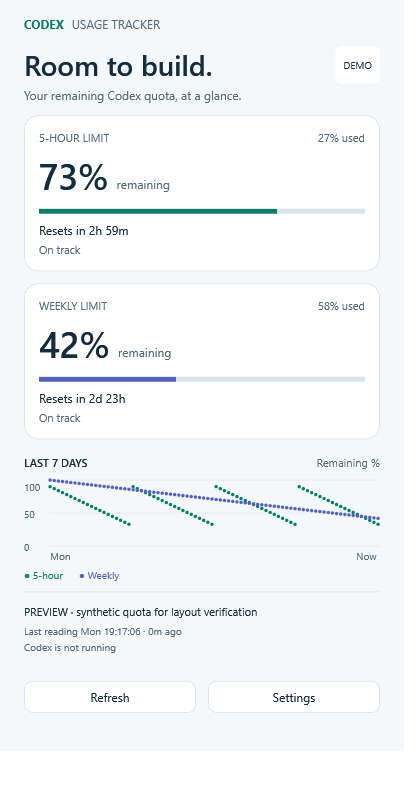
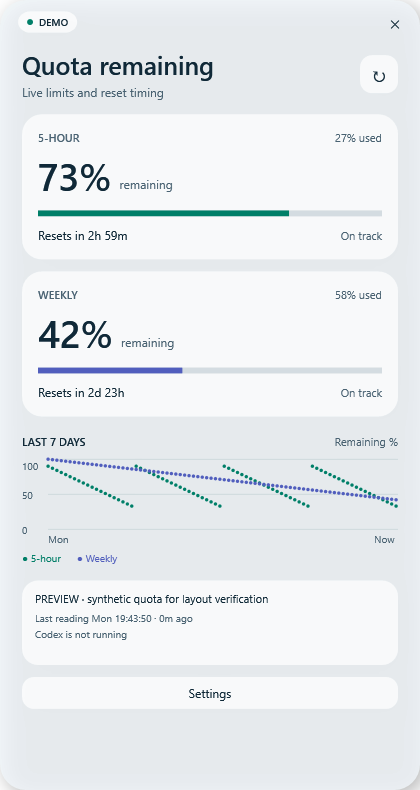
Refine tracker with glass UI

diff --git a/src/CodexUsageTracker.App/DetailsWindow.xaml b/src/CodexUsageTracker.App/DetailsWindow.xaml
@@ -1,31 +1,63 @@
-<Window x:Class="CodexUsageTracker.App.DetailsWindow" xmlns="http://schemas.microsoft.com/winfx/2006/xaml/presentation" xmlns:x="http://schemas.microsoft.com/winfx/2006/xaml" xmlns:local="clr-namespace:CodexUsageTracker.App" Title="Codex Usage Tracker" Width="420" Height="790" MinWidth="380" MinHeight="420" Background="{DynamicResource BackgroundBrush}" WindowStyle="ToolWindow" ShowInTaskbar="False" Topmost="True" KeyDown="OnKeyDown">
-  <ScrollViewer VerticalScrollBarVisibility="Auto" HorizontalScrollBarVisibility="Disabled">
-    <StackPanel Margin="24,16,24,16">
-      <DockPanel><TextBlock Text="CODEX" FontWeight="Bold" FontSize="12" Foreground="{DynamicResource AccentBrush}"/><TextBlock Text="USAGE TRACKER" Margin="8,0" FontSize="12" Foreground="{DynamicResource MutedBrush}"/></DockPanel>
-      <DockPanel Margin="0,14,0,4"><TextBlock Text="Room to build." FontSize="28" FontWeight="SemiBold"/><Border Background="{DynamicResource CardBrush}" CornerRadius="6" Padding="8,4" HorizontalAlignment="Right"><TextBlock Text="{Binding Status}" FontSize="10" VerticalAlignment="Center"/></Border></DockPanel>
-      <TextBlock Text="Your remaining Codex quota, at a glance." Foreground="{DynamicResource MutedBrush}" Margin="0,0,0,12"/>
-      <Border Background="{DynamicResource CardBrush}" BorderBrush="{DynamicResource BorderBrush}" BorderThickness="1" CornerRadius="14" Padding="14" Margin="0,0,0,12">
-        <StackPanel><DockPanel><TextBlock Text="5-HOUR LIMIT" FontSize="11" Foreground="{DynamicResource MutedBrush}"/><TextBlock Text="{Binding FiveUsed}" HorizontalAlignment="Right" FontSize="11" Foreground="{DynamicResource MutedBrush}"/></DockPanel>
-          <StackPanel Orientation="Horizontal" Margin="0,6,0,10"><TextBlock Text="{Binding FiveRemaining}" FontSize="36" FontWeight="SemiBold"/><TextBlock Text="remaining" Margin="8,0,0,7" VerticalAlignment="Bottom" Foreground="{DynamicResource MutedBrush}"/></StackPanel>
-          <ProgressBar Value="{Binding FiveValue, Mode=OneWay}" Maximum="100" Height="5" BorderThickness="0" Background="{DynamicResource BorderBrush}" Foreground="{DynamicResource AccentBrush}"/>
-          <TextBlock Text="{Binding FiveReset}" Margin="0,8,0,4"/><TextBlock Text="{Binding FivePace}" FontSize="11" Foreground="{DynamicResource MutedBrush}"/>
+<Window x:Class="CodexUsageTracker.App.DetailsWindow"
+        xmlns="http://schemas.microsoft.com/winfx/2006/xaml/presentation"
+        xmlns:x="http://schemas.microsoft.com/winfx/2006/xaml"
+        xmlns:local="clr-namespace:CodexUsageTracker.App"
+        Title="Codex Usage Tracker" Width="420" Height="760" MinWidth="380" MinHeight="520"
+        WindowStyle="None" ResizeMode="NoResize" AllowsTransparency="False"
+        Background="{DynamicResource BackgroundBrush}" ShowInTaskbar="False" Topmost="True"
+        KeyDown="OnKeyDown">
+  <Border Background="{DynamicResource GlassBrush}" CornerRadius="26">
+    <Border.Effect><DropShadowEffect BlurRadius="30" ShadowDepth="8" Opacity="0.35" Color="#000000"/></Border.Effect>
+    <Grid>
+      <Grid.RowDefinitions><RowDefinition Height="44"/><RowDefinition/></Grid.RowDefinitions>
+      <Grid Grid.Row="0" Background="Transparent" MouseLeftButtonDown="DragWindow">
+        <Border HorizontalAlignment="Left" VerticalAlignment="Center" Margin="18,0,0,0" Background="{DynamicResource CardBrush}" CornerRadius="12" Padding="9,4">
+          <StackPanel Orientation="Horizontal">
+            <Ellipse Width="6" Height="6" Fill="{DynamicResource AccentBrush}" Margin="0,0,6,0"/>
+            <TextBlock Text="{Binding Status}" FontSize="10" FontWeight="SemiBold" VerticalAlignment="Center"/>
+          </StackPanel>
+        </Border>
+        <Button HorizontalAlignment="Right" Width="34" Height="34" Margin="0,5,8,5" Padding="0" Background="Transparent" Content="×" FontSize="22" FontWeight="Light" ToolTip="Collapse" AutomationProperties.Name="Collapse usage details" Click="Collapse"/>
+      </Grid>
+      <ScrollViewer Grid.Row="1" VerticalScrollBarVisibility="Auto" HorizontalScrollBarVisibility="Disabled" Padding="0,0,7,0">
+        <StackPanel Margin="22,4,15,22">
+          <DockPanel Margin="0,0,0,14">
+            <StackPanel>
+              <TextBlock Text="Quota remaining" FontSize="25" FontWeight="SemiBold"/>
+              <TextBlock Text="Live limits and reset timing" Foreground="{DynamicResource MutedBrush}" Margin="0,3,0,0"/>
+            </StackPanel>
+            <Button Content="↻" ToolTip="Refresh now" AutomationProperties.Name="Refresh quota" Click="Refresh" Width="38" Height="38" Padding="0" HorizontalAlignment="Right" VerticalAlignment="Center" FontSize="19" Background="{DynamicResource CardBrush}"/>
+          </DockPanel>
+          <Border Background="{DynamicResource CardBrush}" CornerRadius="20" Padding="16" Margin="0,0,0,12">
+            <StackPanel>
+              <DockPanel><TextBlock Text="5-HOUR" FontSize="11" FontWeight="SemiBold" Foreground="{DynamicResource MutedBrush}"/><TextBlock Text="{Binding FiveUsed}" HorizontalAlignment="Right" FontSize="11" Foreground="{DynamicResource MutedBrush}"/></DockPanel>
+              <StackPanel Orientation="Horizontal" Margin="0,5,0,10"><TextBlock Text="{Binding FiveRemaining}" FontSize="38" FontWeight="SemiBold"/><TextBlock Text="remaining" Margin="8,0,0,8" VerticalAlignment="Bottom" Foreground="{DynamicResource MutedBrush}"/></StackPanel>
+              <ProgressBar Value="{Binding FiveValue, Mode=OneWay}" Maximum="100" Height="6" BorderThickness="0" Background="{DynamicResource TrackBrush}" Foreground="{DynamicResource AccentBrush}"/>
+              <DockPanel Margin="0,11,0,0"><TextBlock Text="{Binding FiveReset}"/><TextBlock Text="{Binding FivePace}" HorizontalAlignment="Right" FontSize="11" Foreground="{DynamicResource MutedBrush}" VerticalAlignment="Center"/></DockPanel>
+            </StackPanel>
+          </Border>
+          <Border Background="{DynamicResource CardBrush}" CornerRadius="20" Padding="16" Margin="0,0,0,18">
+            <StackPanel>
+              <DockPanel><TextBlock Text="WEEKLY" FontSize="11" FontWeight="SemiBold" Foreground="{DynamicResource MutedBrush}"/><TextBlock Text="{Binding WeekUsed}" HorizontalAlignment="Right" FontSize="11" Foreground="{DynamicResource MutedBrush}"/></DockPanel>
+              <StackPanel Orientation="Horizontal" Margin="0,5,0,10"><TextBlock Text="{Binding WeekRemaining}" FontSize="38" FontWeight="SemiBold"/><TextBlock Text="remaining" Margin="8,0,0,8" VerticalAlignment="Bottom" Foreground="{DynamicResource MutedBrush}"/></StackPanel>
+              <ProgressBar Value="{Binding WeekValue, Mode=OneWay}" Maximum="100" Height="6" BorderThickness="0" Background="{DynamicResource TrackBrush}" Foreground="{DynamicResource WeekBrush}"/>
+              <DockPanel Margin="0,11,0,0"><TextBlock Text="{Binding WeekReset}"/><TextBlock Text="{Binding WeekPace}" HorizontalAlignment="Right" FontSize="11" Foreground="{DynamicResource MutedBrush}" VerticalAlignment="Center"/></DockPanel>
+            </StackPanel>
+          </Border>
+          <DockPanel><TextBlock Text="LAST 7 DAYS" FontSize="11" FontWeight="SemiBold"/><TextBlock Text="Remaining %" HorizontalAlignment="Right" Foreground="{DynamicResource MutedBrush}" FontSize="11"/></DockPanel>
+          <local:HistoryChart x:Name="Chart" Height="88" Margin="0,10,0,4"/>
+          <StackPanel Orientation="Horizontal"><TextBlock Text="● 5-hour" Foreground="{DynamicResource AccentBrush}" FontSize="10"/><TextBlock Text="● Weekly" Foreground="{DynamicResource WeekBrush}" FontSize="10" Margin="16,0,0,0"/></StackPanel>
+          <Border Background="{DynamicResource CardBrush}" CornerRadius="16" Margin="0,16,0,0" Padding="13,11">
+            <StackPanel>
+              <TextBlock Text="{Binding SourceDetail}" TextWrapping="Wrap" FontSize="11"/>
+              <TextBlock Text="{Binding LastUpdated}" Foreground="{DynamicResource MutedBrush}" FontSize="10" Margin="0,5,0,0"/>
+              <TextBlock Text="{Binding Connection}" Foreground="{DynamicResource MutedBrush}" FontSize="10" Margin="0,3,0,0"/>
+              <TextBlock Text="{Binding StorageStatus}" TextWrapping="Wrap" Foreground="{DynamicResource DangerBrush}" FontSize="10"/>
+            </StackPanel>
+          </Border>
+          <Button Content="Settings" Click="Settings" Margin="0,12,0,0"/>
         </StackPanel>
-      </Border>
-      <Border Background="{DynamicResource CardBrush}" BorderBrush="{DynamicResource BorderBrush}" BorderThickness="1" CornerRadius="14" Padding="14" Margin="0,0,0,16">
-        <StackPanel><DockPanel><TextBlock Text="WEEKLY LIMIT" FontSize="11" Foreground="{DynamicResource MutedBrush}"/><TextBlock Text="{Binding WeekUsed}" HorizontalAlignment="Right" FontSize="11" Foreground="{DynamicResource MutedBrush}"/></DockPanel>
-          <StackPanel Orientation="Horizontal" Margin="0,6,0,10"><TextBlock Text="{Binding WeekRemaining}" FontSize="36" FontWeight="SemiBold"/><TextBlock Text="remaining" Margin="8,0,0,7" VerticalAlignment="Bottom" Foreground="{DynamicResource MutedBrush}"/></StackPanel>
-          <ProgressBar Value="{Binding WeekValue, Mode=OneWay}" Maximum="100" Height="5" BorderThickness="0" Background="{DynamicResource BorderBrush}" Foreground="{DynamicResource WeekBrush}"/>
-          <TextBlock Text="{Binding WeekReset}" Margin="0,8,0,4"/><TextBlock Text="{Binding WeekPace}" FontSize="11" Foreground="{DynamicResource MutedBrush}"/>
-        </StackPanel>
-      </Border>
-      <DockPanel><TextBlock Text="LAST 7 DAYS" FontSize="11" FontWeight="SemiBold"/><TextBlock Text="Remaining %" HorizontalAlignment="Right" Foreground="{DynamicResource MutedBrush}" FontSize="11"/></DockPanel>
-      <local:HistoryChart x:Name="Chart" Height="84" Margin="0,10,0,4"/>
-      <StackPanel Orientation="Horizontal"><TextBlock Text="● 5-hour" Foreground="{DynamicResource AccentBrush}" FontSize="10"/><TextBlock Text="● Weekly" Foreground="{DynamicResource WeekBrush}" FontSize="10" Margin="16,0,0,0"/></StackPanel>
-
-      <Border BorderBrush="{DynamicResource BorderBrush}" BorderThickness="0,1,0,0" Margin="0,10,0,0" Padding="0,12,0,0">
-        <StackPanel><TextBlock Text="{Binding SourceDetail}" TextWrapping="Wrap" FontSize="11"/><TextBlock Text="{Binding LastUpdated}" Foreground="{DynamicResource MutedBrush}" FontSize="10" Margin="0,5,0,0"/><TextBlock Text="{Binding Connection}" Foreground="{DynamicResource MutedBrush}" FontSize="10" Margin="0,3,0,0"/><TextBlock Text="{Binding StorageStatus}" TextWrapping="Wrap" Foreground="#DF8C36" FontSize="10"/></StackPanel>
-      </Border>
-      <Grid Margin="0,14,0,0"><Grid.ColumnDefinitions><ColumnDefinition/><ColumnDefinition Width="12"/><ColumnDefinition/></Grid.ColumnDefinitions><Button Content="{Binding RefreshLabel}" Click="Refresh"/><Button Grid.Column="2" Content="Settings" Click="Settings"/></Grid>
-    </StackPanel>
-  </ScrollViewer>
+      </ScrollViewer>
+    </Grid>
+  </Border>
 </Window>

diff --git a/src/CodexUsageTracker.App/SettingsWindow.xaml b/src/CodexUsageTracker.App/SettingsWindow.xaml
@@ -1,21 +1,45 @@
-<Window x:Class="CodexUsageTracker.App.SettingsWindow" xmlns="http://schemas.microsoft.com/winfx/2006/xaml/presentation" xmlns:x="http://schemas.microsoft.com/winfx/2006/xaml" Title="Tracker settings" Width="440" Height="650" ResizeMode="NoResize" Background="{DynamicResource BackgroundBrush}" WindowStartupLocation="CenterScreen" ShowInTaskbar="False">
-  <ScrollViewer VerticalScrollBarVisibility="Auto"><StackPanel Margin="24">
-    <TextBlock Text="Make it yours." FontSize="25" FontWeight="SemiBold" Margin="0,0,0,16"/>
-    <CheckBox x:Name="OnlyRunning" Content="Show widget only while Codex is running"/>
-    <CheckBox x:Name="Floating" Content="Enable floating circle"/>
-    <TextBlock Text="The tray icon stays available when the circle is hidden." FontSize="11" Foreground="{DynamicResource MutedBrush}" TextWrapping="Wrap"/>
-    <TextBlock Text="Appearance" Margin="0,18,0,6"/><ComboBox x:Name="ThemeChoice" SelectedIndex="0"><ComboBoxItem Content="System"/><ComboBoxItem Content="Light"/><ComboBoxItem Content="Dark"/></ComboBox>
-    <CheckBox x:Name="Alerts" Content="Enable low-quota notifications" Margin="0,20,0,8"/>
-    <Grid><Grid.ColumnDefinitions><ColumnDefinition/><ColumnDefinition Width="14"/><ColumnDefinition/></Grid.ColumnDefinitions>
-      <StackPanel><TextBlock Text="Warning remaining (%)" FontSize="11"/><TextBox x:Name="Warning" Margin="0,6,0,0" Padding="7"/></StackPanel>
-      <StackPanel Grid.Column="2"><TextBlock Text="Critical remaining (%)" FontSize="11"/><TextBox x:Name="Critical" Margin="0,6,0,0" Padding="7"/></StackPanel>
+<Window x:Class="CodexUsageTracker.App.SettingsWindow"
+        xmlns="http://schemas.microsoft.com/winfx/2006/xaml/presentation"
+        xmlns:x="http://schemas.microsoft.com/winfx/2006/xaml"
+        Title="Tracker settings" Width="440" Height="720" ResizeMode="NoResize"
+        WindowStyle="None" AllowsTransparency="False" Background="{DynamicResource BackgroundBrush}"
+        WindowStartupLocation="CenterOwner" ShowInTaskbar="False">
+  <Border Background="{DynamicResource GlassBrush}" CornerRadius="26">
+    <Border.Effect><DropShadowEffect BlurRadius="30" ShadowDepth="8" Opacity="0.35" Color="#000000"/></Border.Effect>
+    <Grid>
+      <Grid.RowDefinitions><RowDefinition Height="48"/><RowDefinition/></Grid.RowDefinitions>
+      <Grid Background="Transparent" MouseLeftButtonDown="DragWindow">
+        <TextBlock Text="Settings" Margin="22,0,0,0" VerticalAlignment="Center" FontSize="16" FontWeight="SemiBold"/>
+        <Button Content="×" Click="Cancel" ToolTip="Close settings" AutomationProperties.Name="Close settings" HorizontalAlignment="Right" Width="34" Height="34" Margin="0,7,8,7" Padding="0" Background="Transparent" FontSize="22" FontWeight="Light"/>
+      </Grid>
+      <ScrollViewer Grid.Row="1" VerticalScrollBarVisibility="Auto" HorizontalScrollBarVisibility="Disabled" Padding="0,0,7,0">
+        <StackPanel Margin="22,8,15,22">
+          <TextBlock Text="VISIBILITY" FontSize="11" FontWeight="SemiBold" Foreground="{DynamicResource MutedBrush}"/>
+          <Border Background="{DynamicResource CardBrush}" CornerRadius="18" Padding="14" Margin="0,8,0,16">
+            <StackPanel><CheckBox x:Name="OnlyRunning" Content="Show widget only while Codex is running"/><CheckBox x:Name="Floating" Content="Enable floating circle"/><TextBlock Text="The tray icon stays available when the circle is hidden." FontSize="11" Foreground="{DynamicResource MutedBrush}" TextWrapping="Wrap" Margin="0,4,0,0"/></StackPanel>
+          </Border>
+          <TextBlock Text="APPEARANCE" FontSize="11" FontWeight="SemiBold" Foreground="{DynamicResource MutedBrush}"/>
+          <ComboBox x:Name="ThemeChoice" SelectedIndex="0" Margin="0,8,0,16"><ComboBoxItem Content="System"/><ComboBoxItem Content="Light"/><ComboBoxItem Content="Dark"/></ComboBox>
+          <TextBlock Text="ALERTS" FontSize="11" FontWeight="SemiBold" Foreground="{DynamicResource MutedBrush}"/>
+          <Border Background="{DynamicResource CardBrush}" CornerRadius="18" Padding="14" Margin="0,8,0,16">
+            <StackPanel>
+              <CheckBox x:Name="Alerts" Content="Enable low-quota notifications" Margin="0,0,0,12"/>
+              <Grid><Grid.ColumnDefinitions><ColumnDefinition/><ColumnDefinition Width="14"/><ColumnDefinition/></Grid.ColumnDefinitions>
+                <StackPanel><TextBlock Text="Warning remaining (%)" FontSize="11" Foreground="{DynamicResource MutedBrush}"/><TextBox x:Name="Warning" Margin="0,6,0,0"/></StackPanel>
+                <StackPanel Grid.Column="2"><TextBlock Text="Critical remaining (%)" FontSize="11" Foreground="{DynamicResource MutedBrush}"/><TextBox x:Name="Critical" Margin="0,6,0,0"/></StackPanel>
+              </Grid>
+            </StackPanel>
+          </Border>
+          <TextBlock Text="CODEX SOURCE" FontSize="11" FontWeight="SemiBold" Foreground="{DynamicResource MutedBrush}"/>
+          <DockPanel Margin="0,8,0,0"><Button DockPanel.Dock="Right" Content="Browse" Click="Browse" Margin="8,0,0,0"/><TextBox x:Name="Executable"/></DockPanel>
+          <TextBlock Text="Leave blank to find Codex automatically. Your existing sign-in is used; no API key is needed." FontSize="11" Foreground="{DynamicResource MutedBrush}" TextWrapping="Wrap" Margin="0,7,0,16"/>
+          <TextBlock Text="PRIVACY" FontSize="11" FontWeight="SemiBold" Foreground="{DynamicResource MutedBrush}"/>
+          <TextBlock Text="Quota readings stay on this PC for 7 days. No telemetry, browser cookies, prompts, or responses are stored." TextWrapping="Wrap" Foreground="{DynamicResource MutedBrush}" FontSize="11" Margin="0,7,0,0"/>
+          <Button Content="Clear local history" Click="ClearHistory" HorizontalAlignment="Left" Margin="0,10,0,0"/>
+          <TextBlock x:Name="Validation" Foreground="{DynamicResource DangerBrush}" TextWrapping="Wrap" Margin="0,10,0,0"/>
+          <Button Content="Save settings" Click="Save" Margin="0,14,0,0" Background="{DynamicResource AccentBrush}" Foreground="{DynamicResource AccentTextBrush}" FontWeight="SemiBold"/>
+        </StackPanel>
+      </ScrollViewer>
     </Grid>
-    <TextBlock Text="Codex executable (optional)" Margin="0,20,0,6"/><DockPanel><Button DockPanel.Dock="Right" Content="Browse" Click="Browse" Margin="8,0,0,0"/><TextBox x:Name="Executable" Padding="6"/></DockPanel>
-    <TextBlock Text="Leave blank to find Codex automatically. Uses your existing Codex sign-in; no API key needed." FontSize="11" Foreground="{DynamicResource MutedBrush}" TextWrapping="Wrap" Margin="0,6,0,0"/>
-    <TextBlock Text="Privacy" FontWeight="SemiBold" Margin="0,20,0,6"/>
-    <TextBlock Text="Quota readings stay on this PC for 7 days. No telemetry, browser cookies, or prompt/response storage." TextWrapping="Wrap" Foreground="{DynamicResource MutedBrush}" FontSize="11"/>
-    <Button Content="Clear local history" Click="ClearHistory" HorizontalAlignment="Left" Margin="0,10,0,0"/>
-    <TextBlock x:Name="Validation" Foreground="#D07924" TextWrapping="Wrap" Margin="0,10,0,0"/>
-    <Button Content="Save settings" Click="Save" Margin="0,12,0,0"/>
-  </StackPanel></ScrollViewer>
+  </Border>
 </Window>

diff --git a/src/CodexUsageTracker.App/App.xaml b/src/CodexUsageTracker.App/App.xaml
@@ -1,19 +1,48 @@
 <Application x:Class="CodexUsageTracker.App.App" xmlns="http://schemas.microsoft.com/winfx/2006/xaml/presentation" xmlns:x="http://schemas.microsoft.com/winfx/2006/xaml" ShutdownMode="OnExplicitShutdown">
   <Application.Resources>
-    <SolidColorBrush x:Key="BackgroundBrush" Color="#111B24"/>
-    <SolidColorBrush x:Key="CardBrush" Color="#1A2833"/>
-    <SolidColorBrush x:Key="TextBrush" Color="#F0F5F7"/>
-    <SolidColorBrush x:Key="MutedBrush" Color="#A5B5C2"/>
-    <SolidColorBrush x:Key="BorderBrush" Color="#30424F"/>
-    <SolidColorBrush x:Key="AccentBrush" Color="#4AD9B3"/>
-    <SolidColorBrush x:Key="WeekBrush" Color="#99ACFF"/>
+    <SolidColorBrush x:Key="BackgroundBrush" Color="#00111820"/>
+    <SolidColorBrush x:Key="GlassBrush" Color="#D9141E28"/>
+    <SolidColorBrush x:Key="GlassStrongBrush" Color="#F21A2631"/>
+    <SolidColorBrush x:Key="CardBrush" Color="#80283A47"/>
+    <SolidColorBrush x:Key="InputBrush" Color="#D923313D"/>
+    <SolidColorBrush x:Key="ButtonHoverBrush" Color="#B53A4D5A"/>
+    <SolidColorBrush x:Key="TextBrush" Color="#FFF7FAFC"/>
+    <SolidColorBrush x:Key="MutedBrush" Color="#FFB8C5CE"/>
+    <SolidColorBrush x:Key="BorderBrush" Color="#597B8D99"/>
+    <SolidColorBrush x:Key="TrackBrush" Color="#52637682"/>
+    <SolidColorBrush x:Key="AccentBrush" Color="#FF62E8C1"/>
+    <SolidColorBrush x:Key="AccentTextBrush" Color="#FF071A17"/>
+    <SolidColorBrush x:Key="WeekBrush" Color="#FFA8B7FF"/>
+    <SolidColorBrush x:Key="DangerBrush" Color="#FFFFB36B"/>
     <Style TargetType="Window"><Setter Property="FontFamily" Value="Segoe UI"/><Setter Property="FontSize" Value="13"/><Setter Property="Foreground" Value="{DynamicResource TextBrush}"/></Style>
     <Style TargetType="TextBlock"><Setter Property="Foreground" Value="{DynamicResource TextBrush}"/></Style>
     <Style TargetType="Button">
       <Setter Property="Foreground" Value="{DynamicResource TextBrush}"/><Setter Property="Background" Value="{DynamicResource CardBrush}"/>
-      <Setter Property="BorderBrush" Value="{DynamicResource BorderBrush}"/><Setter Property="Padding" Value="12,7"/><Setter Property="Cursor" Value="Hand"/>
-      <Setter Property="Template"><Setter.Value><ControlTemplate TargetType="Button"><Border x:Name="Body" Background="{TemplateBinding Background}" BorderBrush="{TemplateBinding BorderBrush}" BorderThickness="1" CornerRadius="8" Padding="{TemplateBinding Padding}"><ContentPresenter HorizontalAlignment="Center" VerticalAlignment="Center"/></Border><ControlTemplate.Triggers><Trigger Property="IsMouseOver" Value="True"><Setter TargetName="Body" Property="BorderBrush" Value="{DynamicResource AccentBrush}"/></Trigger><Trigger Property="IsKeyboardFocused" Value="True"><Setter TargetName="Body" Property="BorderBrush" Value="{DynamicResource AccentBrush}"/></Trigger><Trigger Property="IsEnabled" Value="False"><Setter Property="Opacity" Value="0.45"/></Trigger></ControlTemplate.Triggers></ControlTemplate></Setter.Value></Setter>
+      <Setter Property="BorderThickness" Value="0"/><Setter Property="Padding" Value="12,8"/><Setter Property="Cursor" Value="Hand"/>
+      <Setter Property="Template"><Setter.Value><ControlTemplate TargetType="Button"><Border x:Name="Body" Background="{TemplateBinding Background}" CornerRadius="12" Padding="{TemplateBinding Padding}"><ContentPresenter HorizontalAlignment="Center" VerticalAlignment="Center"/></Border><ControlTemplate.Triggers><Trigger Property="IsMouseOver" Value="True"><Setter TargetName="Body" Property="Background" Value="{DynamicResource ButtonHoverBrush}"/></Trigger><Trigger Property="IsKeyboardFocused" Value="True"><Setter TargetName="Body" Property="Background" Value="{DynamicResource ButtonHoverBrush}"/></Trigger><Trigger Property="IsEnabled" Value="False"><Setter Property="Opacity" Value="0.45"/></Trigger></ControlTemplate.Triggers></ControlTemplate></Setter.Value></Setter>
     </Style>
     <Style TargetType="CheckBox"><Setter Property="Foreground" Value="{DynamicResource TextBrush}"/><Setter Property="Margin" Value="0,8"/></Style>
+    <Style TargetType="TextBox"><Setter Property="Foreground" Value="{DynamicResource TextBrush}"/><Setter Property="Background" Value="{DynamicResource InputBrush}"/><Setter Property="CaretBrush" Value="{DynamicResource AccentBrush}"/><Setter Property="BorderThickness" Value="0"/><Setter Property="Padding" Value="10,8"/></Style>
+    <Style TargetType="ComboBox">
+      <Setter Property="Foreground" Value="{DynamicResource TextBrush}"/><Setter Property="Background" Value="{DynamicResource InputBrush}"/><Setter Property="Padding" Value="10,8"/>
+      <Setter Property="Template"><Setter.Value><ControlTemplate TargetType="ComboBox">
+        <Grid>
+          <ToggleButton Focusable="False" IsChecked="{Binding IsDropDownOpen, RelativeSource={RelativeSource TemplatedParent}, Mode=TwoWay}" Background="Transparent" BorderThickness="0" HorizontalAlignment="Stretch">
+            <ToggleButton.Template><ControlTemplate TargetType="ToggleButton"><Border Background="{DynamicResource InputBrush}" CornerRadius="11" Padding="10,8"><Grid><ContentPresenter Content="{Binding SelectionBoxItem, RelativeSource={RelativeSource AncestorType=ComboBox}}" VerticalAlignment="Center"/><TextBlock Text="⌄" HorizontalAlignment="Right" Foreground="{DynamicResource MutedBrush}"/></Grid></Border></ControlTemplate></ToggleButton.Template>
+          </ToggleButton>
+          <Popup x:Name="PART_Popup" IsOpen="{TemplateBinding IsDropDownOpen}" Placement="Bottom" AllowsTransparency="True" Focusable="False" PopupAnimation="Fade">
+            <Border Background="{DynamicResource GlassStrongBrush}" CornerRadius="12" Padding="4" MinWidth="{Binding ActualWidth, RelativeSource={RelativeSource TemplatedParent}}">
+              <Border.Effect><DropShadowEffect BlurRadius="18" ShadowDepth="5" Opacity="0.3"/></Border.Effect>
+              <ScrollViewer><ItemsPresenter/></ScrollViewer>
+            </Border>
+          </Popup>
+        </Grid>
+      </ControlTemplate></Setter.Value></Setter>
+    </Style>
+    <Style TargetType="ComboBoxItem">
+      <Setter Property="Foreground" Value="{DynamicResource TextBrush}"/><Setter Property="Background" Value="Transparent"/><Setter Property="Padding" Value="10,8"/>
+      <Setter Property="Template"><Setter.Value><ControlTemplate TargetType="ComboBoxItem"><Border x:Name="Item" Background="{TemplateBinding Background}" CornerRadius="8" Padding="{TemplateBinding Padding}"><ContentPresenter/></Border><ControlTemplate.Triggers><Trigger Property="IsHighlighted" Value="True"><Setter TargetName="Item" Property="Background" Value="{DynamicResource ButtonHoverBrush}"/></Trigger><Trigger Property="IsSelected" Value="True"><Setter TargetName="Item" Property="Background" Value="{DynamicResource CardBrush}"/></Trigger></ControlTemplate.Triggers></ControlTemplate></Setter.Value></Setter>
+    </Style>
+    <Style TargetType="ScrollBar"><Setter Property="Width" Value="7"/><Setter Property="Opacity" Value="0.55"/></Style>
   </Application.Resources>
 </Application>

diff --git a/src/CodexUsageTracker.App/WidgetWindow.xaml b/src/CodexUsageTracker.App/WidgetWindow.xaml
@@ -2,7 +2,9 @@
   <Button ToolTip="{Binding WidgetTooltip}" Click="OpenDetails" AutomationProperties.Name="Open Codex quota details" Padding="0" Background="Transparent" BorderBrush="Transparent">
     <Button.Template><ControlTemplate TargetType="Button"><ContentPresenter/></ControlTemplate></Button.Template>
     <Grid Width="92" Height="92">
-      <Ellipse Fill="{DynamicResource BackgroundBrush}" Stroke="{DynamicResource BorderBrush}"/>
+      <Ellipse Fill="{DynamicResource GlassStrongBrush}">
+        <Ellipse.Effect><DropShadowEffect BlurRadius="20" ShadowDepth="5" Opacity="0.38" Color="#000000"/></Ellipse.Effect>
+      </Ellipse>
       <local:QuotaRing x:Name="Ring" Five="{Binding FiveValue}" Week="{Binding WeekValue}" Margin="3"/>
       <StackPanel VerticalAlignment="Center" HorizontalAlignment="Center">
         <TextBlock Text="{Binding FiveRemaining}" FontWeight="SemiBold" FontSize="20" HorizontalAlignment="Center"/>

diff --git a/src/CodexUsageTracker.App/GlassWindow.cs b/src/CodexUsageTracker.App/GlassWindow.cs
@@ -1,0 +1,56 @@
+using System.Runtime.InteropServices;
+using System.Windows.Interop;
+
+namespace CodexUsageTracker.App;
+
+internal static class GlassWindow
+{
+    public static void Enable(Window window, Func<bool> isDark)
+    {
+        window.SourceInitialized += (_, _) => Apply(window, isDark());
+    }
+
+    public static void Apply(Window window, bool dark)
+    {
+        var handle = new WindowInteropHelper(window).Handle;
+        if (handle == IntPtr.Zero) return;
+        if (HwndSource.FromHwnd(handle) is { CompositionTarget: { } target }) target.BackgroundColor = Colors.Transparent;
+
+        var enabled = dark ? 1 : 0;
+        DwmSetWindowAttribute(handle, 20, ref enabled, sizeof(int));
+        var corner = 2; // DWMWCP_ROUND
+        DwmSetWindowAttribute(handle, 33, ref corner, sizeof(int));
+
+        if (OperatingSystem.IsWindowsVersionAtLeast(10, 0, 22000))
+        {
+            var backdrop = 3; // DWMSBT_TRANSIENTWINDOW: acrylic-style system backdrop
+            DwmSetWindowAttribute(handle, 38, ref backdrop, sizeof(int));
+            var margins = new Margins { Left = -1, Right = -1, Top = -1, Bottom = -1 };
+            DwmExtendFrameIntoClientArea(handle, ref margins);
+        }
+        else
+        {
+            var accent = new AccentPolicy
+            {
+                AccentState = 4, // ACCENT_ENABLE_ACRYLICBLURBEHIND
+                GradientColor = dark ? unchecked((int)0xCC201810) : unchecked((int)0xCCF8F2EE)
+            };
+            var size = Marshal.SizeOf<AccentPolicy>();
+            var pointer = Marshal.AllocHGlobal(size);
+            try
+            {
+                Marshal.StructureToPtr(accent, pointer, false);
+                var data = new WindowCompositionAttributeData { Attribute = 19, Data = pointer, SizeOfData = size };
+                SetWindowCompositionAttribute(handle, ref data);
+            }
+            finally { Marshal.FreeHGlobal(pointer); }
+        }
+    }
+
+    [StructLayout(LayoutKind.Sequential)] private struct Margins { public int Left, Right, Top, Bottom; }
+    [StructLayout(LayoutKind.Sequential)] private struct AccentPolicy { public int AccentState, AccentFlags, GradientColor, AnimationId; }
+    [StructLayout(LayoutKind.Sequential)] private struct WindowCompositionAttributeData { public int Attribute; public IntPtr Data; public int SizeOfData; }
+    [DllImport("dwmapi.dll")] private static extern int DwmSetWindowAttribute(IntPtr hwnd, int attribute, ref int value, int size);
+    [DllImport("dwmapi.dll")] private static extern int DwmExtendFrameIntoClientArea(IntPtr hwnd, ref Margins margins);
+    [DllImport("user32.dll")] [return: MarshalAs(UnmanagedType.Bool)] private static extern bool SetWindowCompositionAttribute(IntPtr hwnd, ref WindowCompositionAttributeData data);
+}

diff --git a/src/CodexUsageTracker.App/TrackerController.cs b/src/CodexUsageTracker.App/TrackerController.cs
@@ -135,7 +135,7 @@ public sealed class TrackerController : IDisposable
     public void ShowSettings() { var dialog = new SettingsWindow(this); if (details.IsVisible) dialog.Owner = details; dialog.ShowDialog(); }
     public void SaveSettings()
     {
-        try { Settings.Save(settingsPath); App.ApplyTheme(Settings.Theme); widget.Ring.InvalidateVisual(); details.Chart.InvalidateVisual(); ViewModel.Notify(); }
+        try { Settings.Save(settingsPath); App.ApplyTheme(Settings.Theme); GlassWindow.Apply(details, App.IsDarkTheme(Settings.Theme)); widget.Ring.InvalidateVisual(); details.Chart.InvalidateVisual(); ViewModel.Notify(); }
         catch (Exception e) when (e is IOException or UnauthorizedAccessException) { MessageBox.Show("Settings could not be saved. Check folder access.", "Codex Usage Tracker"); }
     }
     public void ClearHistory() { repository.Clear(); UpdateHistory(); }
@@ -144,7 +144,7 @@ public sealed class TrackerController : IDisposable
         try { details.SetHistory(repository.ReadHistory(DateTimeOffset.UtcNow)); }
         catch (Microsoft.Data.Sqlite.SqliteException) { ViewModel.StorageStatus = "History is temporarily unavailable."; }
     }
-    private void OnSystemPreferenceChanged(object sender, UserPreferenceChangedEventArgs e) => Application.Current.Dispatcher.BeginInvoke(() => { App.ApplyTheme(Settings.Theme); widget.Ring.InvalidateVisual(); details.Chart.InvalidateVisual(); });
+    private void OnSystemPreferenceChanged(object sender, UserPreferenceChangedEventArgs e) => Application.Current.Dispatcher.BeginInvoke(() => { App.ApplyTheme(Settings.Theme); GlassWindow.Apply(details, App.IsDarkTheme(Settings.Theme)); widget.Ring.InvalidateVisual(); details.Chart.InvalidateVisual(); });
     private void OnDisplayChanged(object? sender, EventArgs e) => Application.Current.Dispatcher.BeginInvoke(widget.ClampPosition);
 
     public void RenderPreview(string directory, string theme = "Dark")

diff --git a/src/CodexUsageTracker.App/App.xaml.cs b/src/CodexUsageTracker.App/App.xaml.cs
@@ -39,13 +39,16 @@ public partial class App : Application
         }
     }
 
+    public static bool IsDarkTheme(string choice) => choice == "Dark" ||
+        (choice == "System" && (int?)Registry.GetValue(@"HKEY_CURRENT_USER\Software\Microsoft\Windows\CurrentVersion\Themes\Personalize", "AppsUseLightTheme", 1) == 0);
+
     public static void ApplyTheme(string choice)
     {
-        var dark = choice == "Dark" || (choice == "System" && (int?)Registry.GetValue(@"HKEY_CURRENT_USER\Software\Microsoft\Windows\CurrentVersion\Themes\Personalize", "AppsUseLightTheme", 1) == 0);
+        var dark = IsDarkTheme(choice);
         var palette = dark
-            ? new[] { "#111B24", "#1A2833", "#F0F5F7", "#A5B5C2", "#30424F", "#4AD9B3", "#99ACFF" }
-            : new[] { "#F5F8FA", "#FFFFFF", "#142C3B", "#526A7A", "#DAE4EA", "#087D63", "#5262BC" };
-        var keys = new[] { "BackgroundBrush", "CardBrush", "TextBrush", "MutedBrush", "BorderBrush", "AccentBrush", "WeekBrush" };
+            ? new[] { "#00111820", "#D9141E28", "#F21A2631", "#80283A47", "#D923313D", "#B53A4D5A", "#FFF7FAFC", "#FFB8C5CE", "#597B8D99", "#52637682", "#FF62E8C1", "#FF071A17", "#FFA8B7FF", "#FFFFB36B" }
+            : new[] { "#00F5F9FC", "#D9EEF5F8", "#F7FFFFFF", "#BFFFFFFF", "#EFFFFFFF", "#E5DCEAF0", "#FF102938", "#FF405766", "#526F8795", "#426D8795", "#FF007F68", "#FFFFFFFF", "#FF515EBD", "#FFC56016" };
+        var keys = new[] { "BackgroundBrush", "GlassBrush", "GlassStrongBrush", "CardBrush", "InputBrush", "ButtonHoverBrush", "TextBrush", "MutedBrush", "BorderBrush", "TrackBrush", "AccentBrush", "AccentTextBrush", "WeekBrush", "DangerBrush" };
         for (var i = 0; i < keys.Length; i++) Current.Resources[keys[i]] = new SolidColorBrush((Color)ColorConverter.ConvertFromString(palette[i]));
     }
 

diff --git a/src/CodexUsageTracker.App/SettingsWindow.xaml.cs b/src/CodexUsageTracker.App/SettingsWindow.xaml.cs
@@ -1,4 +1,5 @@
 using Microsoft.Win32;
+using System.Windows.Input;
 
 namespace CodexUsageTracker.App;
 
@@ -8,12 +9,15 @@ public partial class SettingsWindow : Window
     public SettingsWindow(TrackerController controller)
     {
         InitializeComponent(); this.controller = controller;
+        GlassWindow.Enable(this, () => App.IsDarkTheme(controller.Settings.Theme));
         var settings = controller.Settings;
         OnlyRunning.IsChecked = settings.OnlyWhileCodexRunning; Floating.IsChecked = settings.FloatingWidget;
         Alerts.IsChecked = settings.AlertsEnabled; Warning.Text = settings.WarningPercent.ToString(); Critical.Text = settings.CriticalPercent.ToString();
         ThemeChoice.SelectedIndex = settings.Theme == "Light" ? 1 : settings.Theme == "Dark" ? 2 : 0;
         Executable.Text = settings.CodexExecutable;
     }
+    private void Cancel(object sender, RoutedEventArgs e) => DialogResult = false;
+    private void DragWindow(object sender, MouseButtonEventArgs e) { if (e.LeftButton == MouseButtonState.Pressed) DragMove(); }
     private void Browse(object sender, RoutedEventArgs e)
     {
         var dialog = new OpenFileDialog { Filter = "Codex executable (codex.exe)|codex.exe", CheckFileExists = true };

diff --git a/src/CodexUsageTracker.App/DetailsWindow.xaml.cs b/src/CodexUsageTracker.App/DetailsWindow.xaml.cs
@@ -9,11 +9,14 @@ public partial class DetailsWindow : Window
     public DetailsWindow(TrackerController controller)
     {
         InitializeComponent(); this.controller = controller; DataContext = controller.ViewModel;
+        GlassWindow.Enable(this, () => App.IsDarkTheme(controller.Settings.Theme));
         Closing += HideInsteadOfClose;
     }
     private void HideInsteadOfClose(object? sender, CancelEventArgs e) { e.Cancel = true; Hide(); }
     private async void Refresh(object sender, RoutedEventArgs e) => await controller.RefreshAsync();
     private void Settings(object sender, RoutedEventArgs e) => controller.ShowSettings();
+    private void Collapse(object sender, RoutedEventArgs e) => Hide();
+    private void DragWindow(object sender, MouseButtonEventArgs e) { if (e.LeftButton == MouseButtonState.Pressed) DragMove(); }
     private void OnKeyDown(object sender, KeyEventArgs e) { if (e.Key == Key.Escape) Hide(); }
     public void SetHistory(IReadOnlyList<UsageSnapshot> samples) { Chart.Samples = samples; Chart.InvalidateVisual(); }
 }

diff --git a/README.md b/README.md
@@ -12,6 +12,7 @@ Screenshots use clearly marked synthetic preview values, not account data.
 ## Features
 
 - Always-on-top circular widget; click or keyboard-activate to open details; drag to move.
+- Borderless acrylic-style panels with a native Windows backdrop, rounded glass cards, and high-contrast light/dark palettes.
 - System tray icon with quota rings, remaining quota tooltip, refresh, settings, and quit.
 - By default the circle is visible only while a Codex process runs; tray-only and always-visible modes are configurable.
 - Five-hour and weekly **remaining** quota, used percentages, and reset countdowns.
